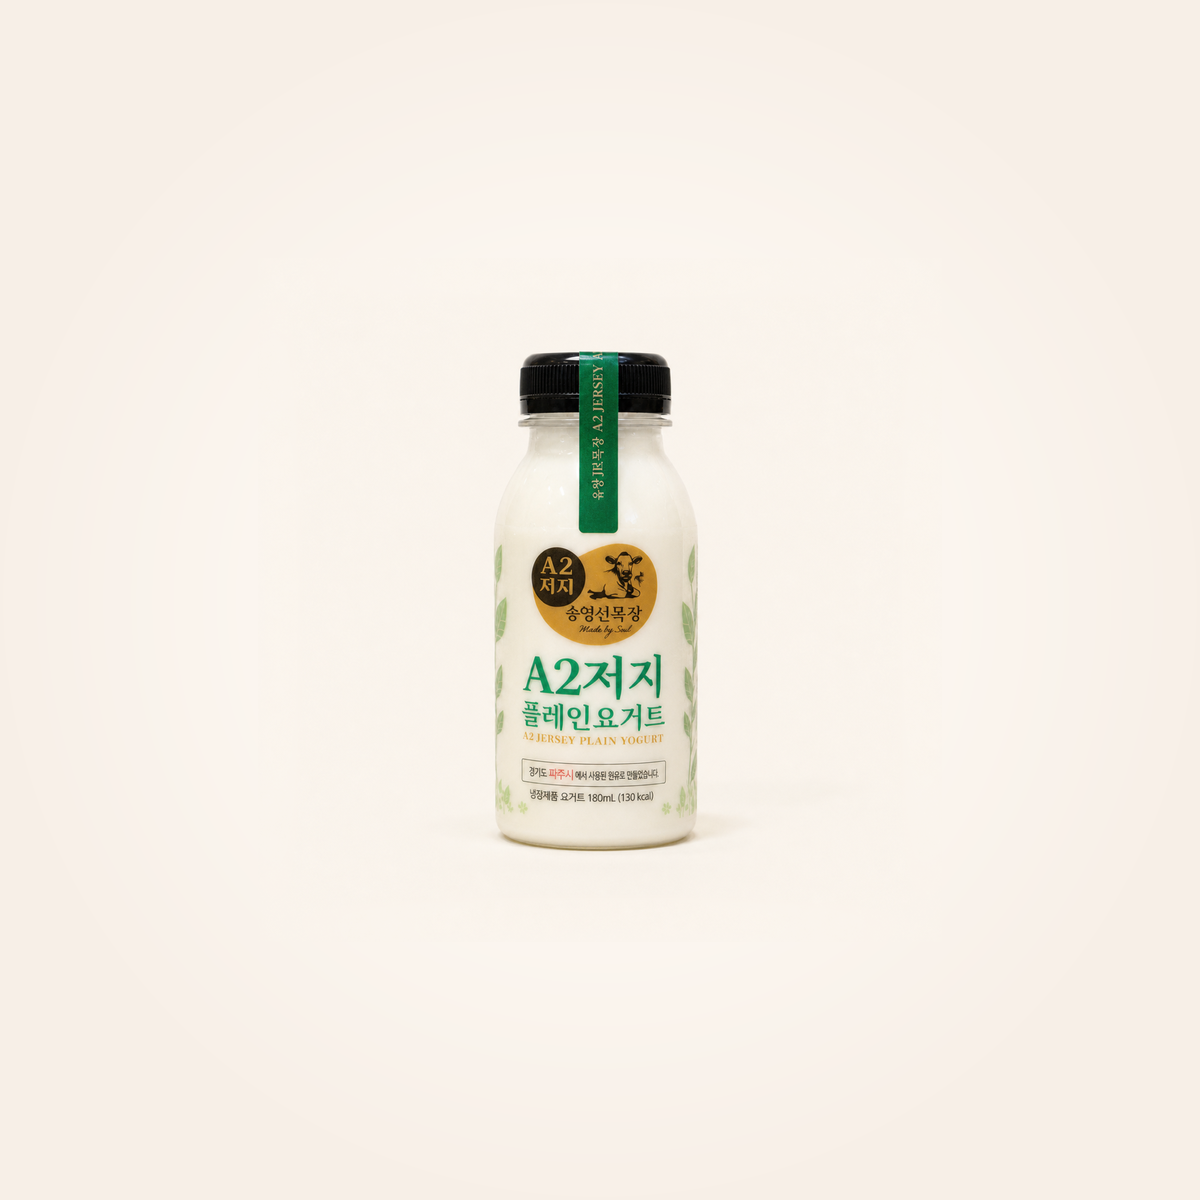
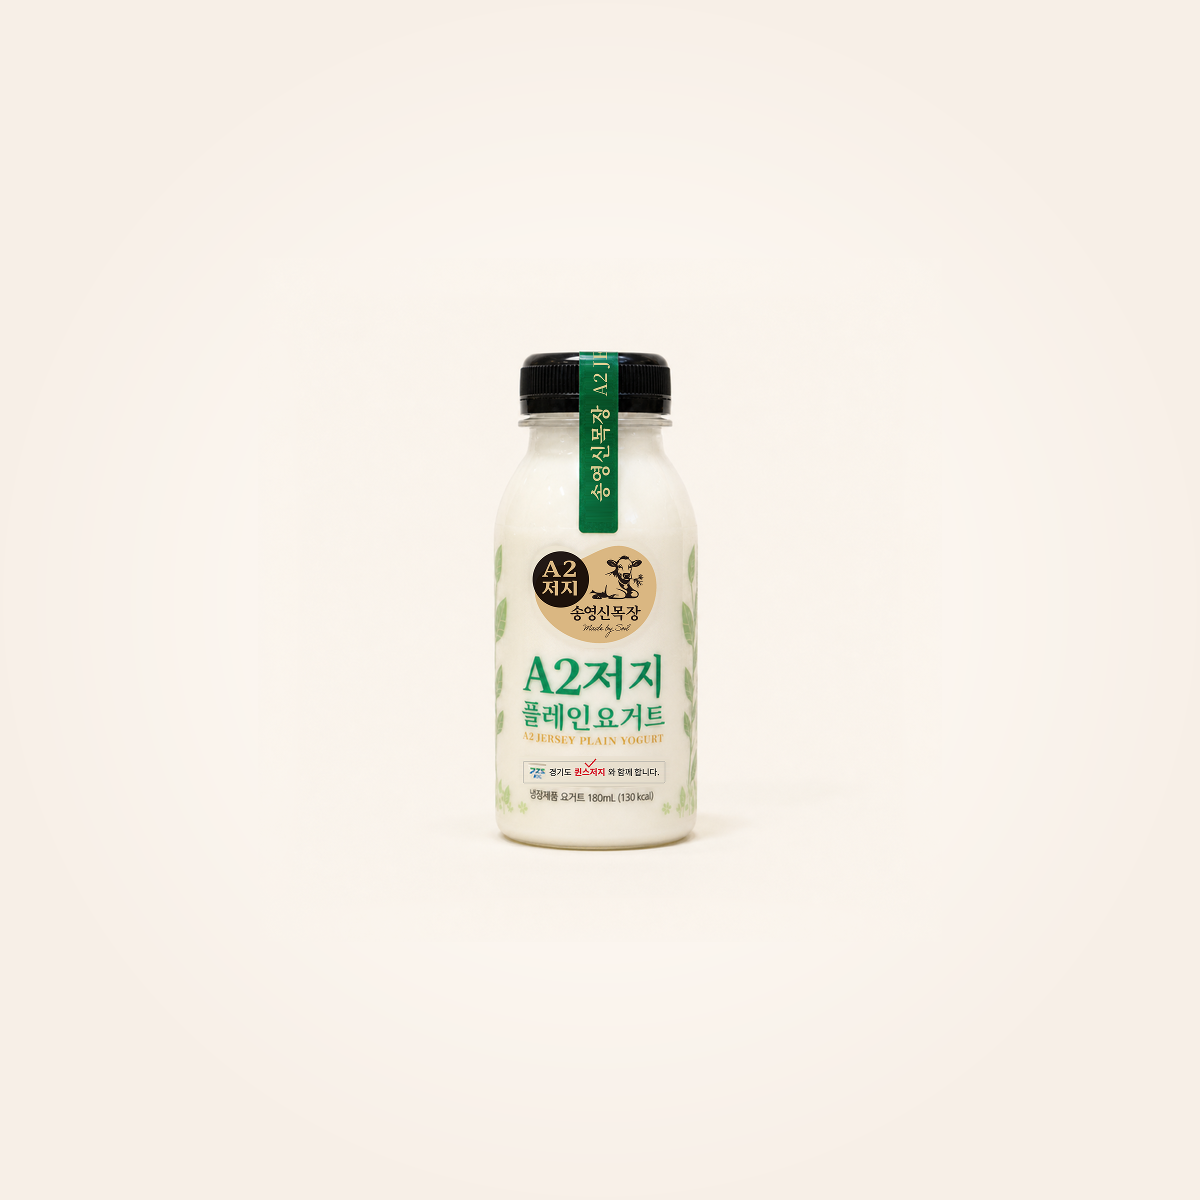
fix(제품 사진): 병 라벨 글자 오류 교정 — 송영신목장·경기도 퀸스저지 (#241)
병 사진·홈 단체 사진의 라벨이 실제와 달랐다(AI 생성 이미지의 글자 오류).
  · 로고: 송영선목장 / A2 저저 / Made by Soul → 송영신목장 · Made by Soil
  · 하단 상자: 레스저자·쿼소저자·최소지지·원산지에…, 요거트 180mL 는
    '경기도 파주시에서 사용된 원유로 만들었습니다' → 경기도 퀸스저지 와 함께 합니다.
  · 띠 글자(제품 사진 넷): 송영신목장 A2 JERSEY HAY MILK / PLAIN YOGURT

고친 방법: AI 재생성 없이 라벨 로고 벡터 원본(public/brand/logo-label.png)을 얹고
글자는 글꼴로 조판했다. 틀린 영역만 바꾸고 나머지 픽셀은 그대로 둔다.

대상: 상세 사진 4(*-bottle.webp) · 진열 카드 누끼 4(cut/) · 공유 카드용 PNG 4 ·
홈 단체 사진(hero-row-white.webp) · 대표 공유 이미지(og-default.jpg) · 원본 4(assets/).
파일명·크기 동일 — 코드 변경 없음. AGENTS.md 에 재발 방지 규칙 추가.

Claude-Session: https://claude.ai/code/session_01F2bgBTKJ7TqpFALYp1gxwG

Changed region(s): [[0.4317, 0.2775, 0.555, 0.555], [0.4317, 0.6167, 0.555, 0.6475]]

diff --git a/AGENTS.md b/AGENTS.md
@@ -65,3 +65,19 @@ end $$;
 2026-09-25 제품 사진 누끼를 손으로 깎다가, 병 밑동이 흰 테이블 위에서 255 로 날아가
 윤곽이 데이터에 아예 없다는 걸 뒤늦게 알았다. Higgsfield 배경제거는 그 구간을 학습된
 사전지식으로 메운다 — 규칙 기반 세그멘테이션으로는 복구할 수 없는 부분이다.
+
+# 제품 사진의 라벨 글자는 올리기 전에 한 글자씩 읽는다
+
+제품 병 사진(렌더·AI 가공본 포함)은 **라벨 글자가 실제와 같은지 확대해서 읽은 뒤에만** 올린다.
+정답은 넷뿐이다 — 로고 `송영신목장 / Made by Soil`(원본: `public/brand/logo-label.png`),
+띠 `송영신목장 A2 JERSEY HAY MILK|PLAIN YOGURT`, 하단 상자 `경기도 퀸스저지 와 함께 합니다.`,
+열량은 `lib/products.ts` 값.
+
+2026-11-16 회장님이 직접 발견했다. 9월부터 쓰던 병 사진과 홈 단체 사진이 AI 가 만든 그림이라
+라벨이 `송영선목장`, `경기도 레스저자/쿼소저자/최소지지`, `경기도 파주시에서 사용된 원유로…`,
+`A2 저저`, `Made by Soul` 로 찍혀 있었다. 작은 화면에서는 안 읽혀 넘어갔다가, #240 에서 병을
+크게 진열하자 그대로 드러났다. 지어낸 원산지 문구(파주시)는 표시광고 문제이기도 하다.
+
+고칠 때는 AI 로 글자를 다시 그리지 않는다(또 틀린다). 벡터 로고를 얹고 글자는 글꼴로 조판한다.
+이번 교정본은 그렇게 만든 **임시 교정**이다 — 실제 병을 찍은 사진을 받으면 그것으로 바꾼다.
+`public/detail/*.jpg` 는 쓰이지 않는 옛 상세 이미지이며 같은 종류의 오류가 남아 있으니 되살리지 않는다.
